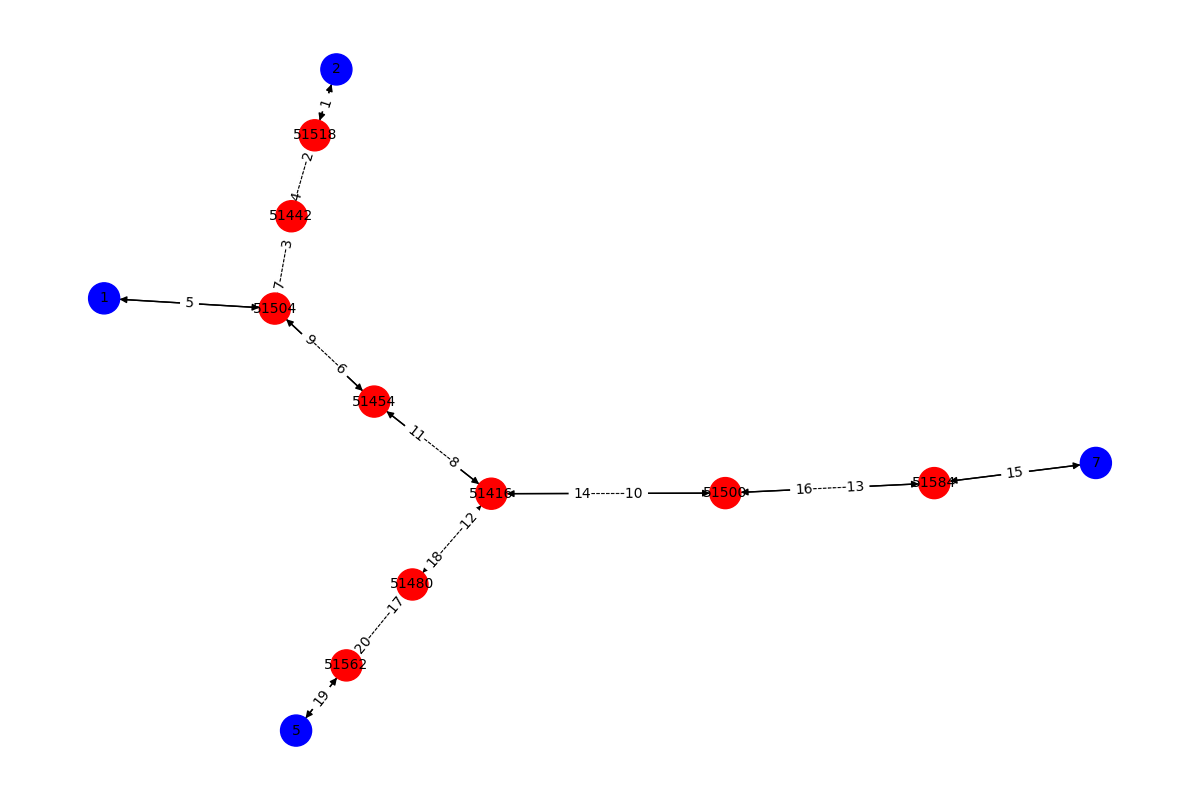
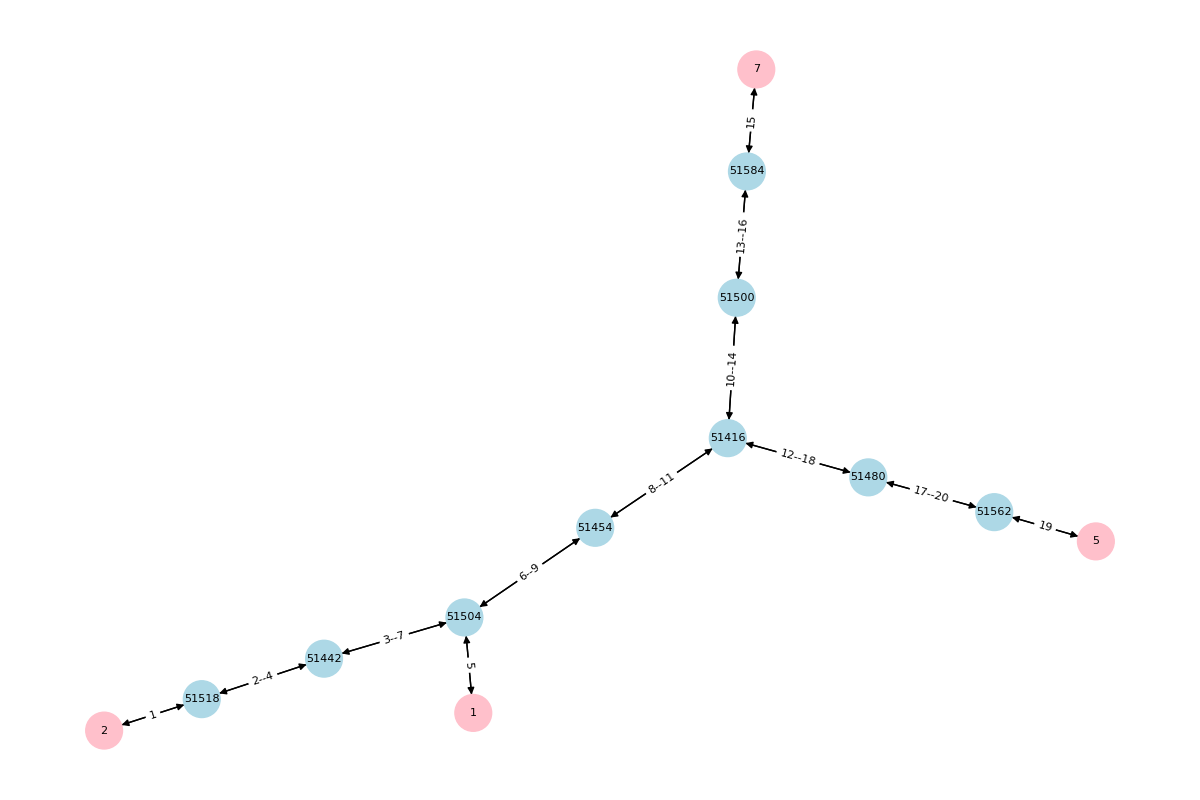
bug in the drawing handled!

diff --git a/FPSDN/FPSDN.py b/FPSDN/FPSDN.py
@@ -9,6 +9,7 @@ import itertools as it
 import subprocess
 from time import perf_counter
 import gc
+import random
 
 
 def find_partial_topology(log_file_path):
@@ -88,55 +89,50 @@ def find_topo(partial_topo, packets):
     return G
 
 def save_topo_graph(topo, ports,path):
-    # G = topo
-    # color_map = []
-    # for node in list(G.nodes()):
-    #     if G.nodes[node]["type"] == "host":
-    #         color_map.append('blue')
-    #     else: 
-    #         color_map.append('red')
-    
-    # os.makedirs(os.path.dirname(path), exist_ok=True)
-    # pos = nx.spring_layout(G)
-    # nx.draw(G, node_color=color_map, with_labels=True)
-    # nx.draw_networkx_edge_labels(G, pos, edge_labels=ports, font_color='red')
-    # plt.savefig(path, format="PNG")
+
     G = topo
     color_map = []
     for node in list(G.nodes()):
         if G.nodes[node]["type"] == "host":
-            color_map.append('blue')
+            color_map.append('pink')
         else: 
-            color_map.append('red')
+            color_map.append('lightblue')
     
     os.makedirs(os.path.dirname(path), exist_ok=True)
     
-    pos = nx.spring_layout(G)  # Define the layout for better visualization
-
-    plt.figure(figsize=(12, 8))
-    # Draw the nodes and edges
-    nx.draw(G, pos, node_color=color_map, with_labels=True, node_size=500, font_size=10)
+   
     
     # Prepare edge labels with port information
     edge_labels = {}
     checker = []
+    edge_checker = []
     for edge in G.edges():
-        # TODO BUG
-        # print(edge)
-        # Ports are typically given for both directions
         src, dst = edge
-        if (src, dst) in ports and (dst, src) in ports:
-            if f"{ports[(dst, src)]}-------{ports[(src, dst)]}" not in checker:
-                edge_labels[edge] = f"{ports[(dst, src)]}-------{ports[(src, dst)]}"
-                checker.append(f"{ports[(src, dst)]}-------{ports[(dst, src)]}")
-        elif (src, dst) in ports:
+        reverse_edge = (dst, src)
+        if edge not in edge_checker and reverse_edge not in edge_checker and (src, dst) in ports and (dst, src) in ports:
+            print(edge)
+            print(f"{ports[(src, dst)]}--{ports[(dst, src)]}")
+            edge_labels[edge] = f"{ports[(src, dst)]}--{ports[(dst, src)]}"
+            edge_checker.append(edge)
+            edge_checker.append(reverse_edge)
+        elif edge not in edge_checker and reverse_edge not in edge_checker and (src, dst) in ports:
             edge_labels[edge] = f"{ports[(src, dst)]}"
-        elif (dst, src) in ports:
-            edge_labels[edge] = f"{ports[(dst, src)]}"
+            edge_checker.append(edge)
+            edge_checker.append(reverse_edge)
+    
+    seed = 50
+    random.seed(seed)
+    pos = nx.spring_layout(G, seed=seed) 
+    # pos = nx.spring_layout(G)  # Define the layout for better visualization
+
+    plt.figure(figsize=(12, 8))
+    # Draw the nodes and edges
+    nx.draw(G, pos, node_color=color_map, with_labels=True, node_size=700, font_size=8)
+
     
     # Draw edge labels
-    nx.draw_networkx_edge_labels(G, pos, edge_labels=edge_labels, font_size=10, label_pos=0.5)
-    
+    nx.draw_networkx_edge_labels(G, pos, edge_labels=edge_labels, font_size=8, label_pos=0.5)
+    plt.axis('off')
     plt.savefig(path, format="PNG")
     plt.close()  # Close the figure to free up resources
 
@@ -479,44 +475,15 @@ def DyNetKAT(topo_graph, packets, expriment_name):
 
 
     # return None
-    n_combinations = 1
-    print("flow tables:")
-    for k, v in flow_tables.items():
-        n_combinations = n_combinations * (len(v)+1)
-        print(k, " --> policy: ", policy[k])
-        print(k, " --> number of rules: ", len(v), " rules: ",v)
+    # n_combinations = 1
+    # print("flow tables:")
+    # for k, v in flow_tables.items():
+    #     n_combinations = n_combinations * (len(v)+1)
+    #     print(k, " --> policy: ", policy[k])
+    #     print(k, " --> number of rules: ", len(v), " rules: ",v)
     
-    print("n_combinations: ", n_combinations)
-    # return None
+    # print("n_combinations: ", n_combinations)
 
-    # policy["S47246"] = "pt = 1 . pt <- 3"
-    # policy["S47184"] = "pt = 9 . pt <- 8"
-    # policy["S47168"] = "pt = 11 . pt <- 13"
-
-    # policy["S47232"] = "pt = 29 . pt <- 28"
-    # policy["S47298"] = "pt = 32 . pt <- 31"
-    
-    # policy["S47218"] = "pt = 22 . pt <- 21"
-    # policy["S47276"] = "pt = 25 . pt <- 24"
-    
-    # print(policy)
-
-
-    # flow_tables = {}
-    
-    # # flow_tables['S47182']= ['pt = 5 . pt <- 4']
-    # # flow_tables['S47248']= ['pt = 7 . pt <- 6']
-    # flow_tables["S47246"] = []
-    # flow_tables["S47184"] = []
-    # flow_tables["S47168"] = ['pt = 11 . pt <- 12']
-    # # flow_tables["S47168"] = []
-
-
-    # flow_tables["S47232"] = []
-    # flow_tables["S47298"] = []
-    
-    # flow_tables["S47218"] = []
-    # flow_tables["S47276"] = []
 
 
     C = ""
@@ -537,15 +504,6 @@ def DyNetKAT(topo_graph, packets, expriment_name):
     in_packets = {"h1toh7": "(pt = 5)"}
     out_packets = {"h1toh7": "(pt = 15)"}
     
-    # all_rcfgs = []
-    # all_rcfgs.append('rcfg(event1sendS37596, "one")')
-    # all_rcfgs.append('rcfg(event1upS37596, "pt = 1 . pt <- 2")')
-    # all_rcfgs.append('rcfg(event1sendS37582, "one")')
-    # all_rcfgs.append('rcfg(event1upS37582, "pt = 5 . pt <- 4")')
-
-
-    
-
     properties = {
                   "h1toh7": [
                                ("r", "(head(@Program))", "=0", 2),
